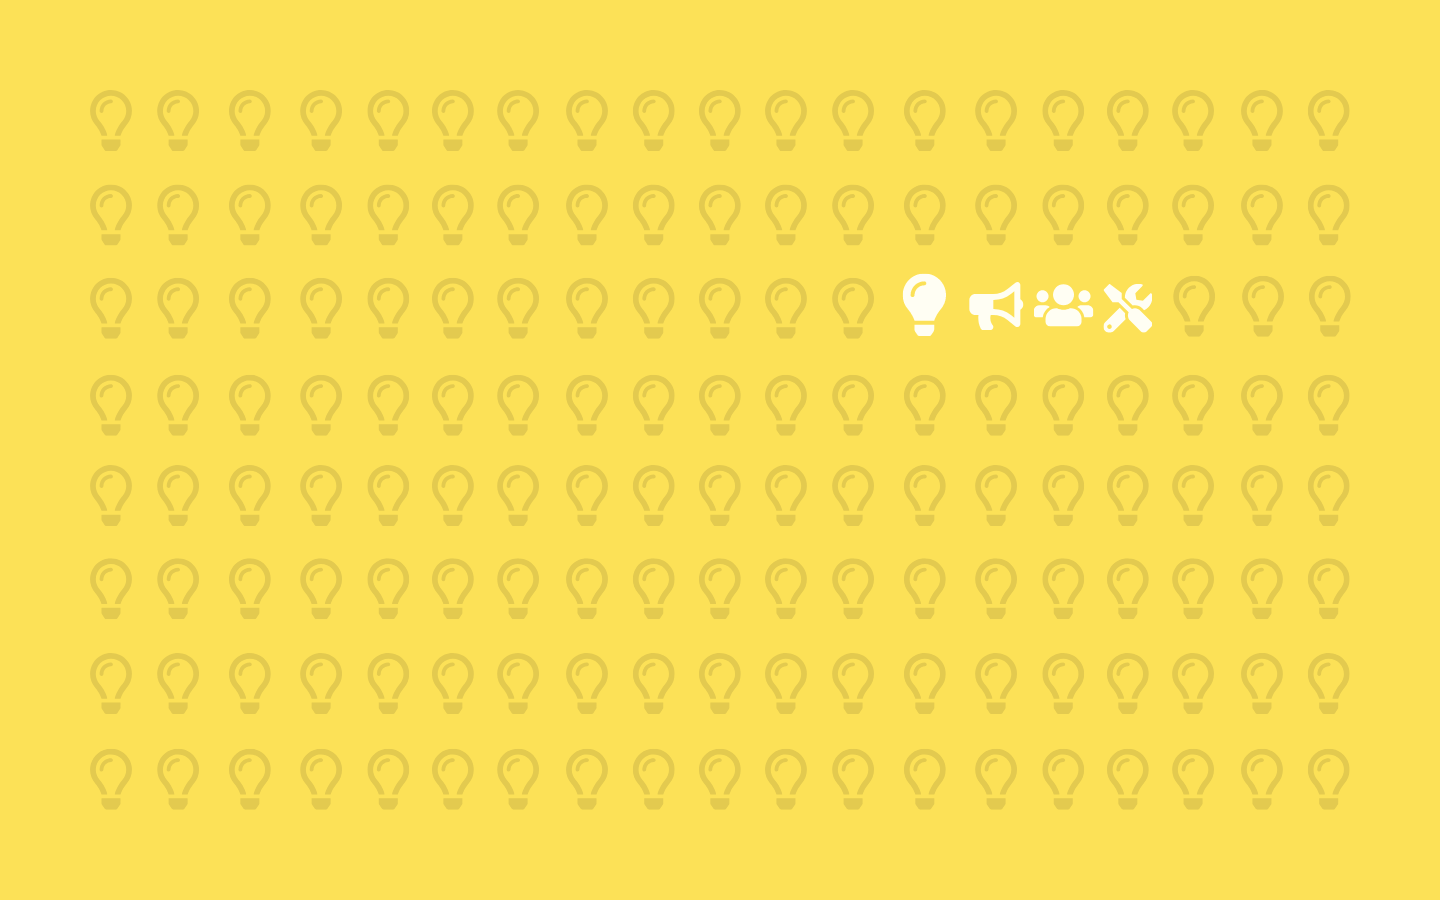
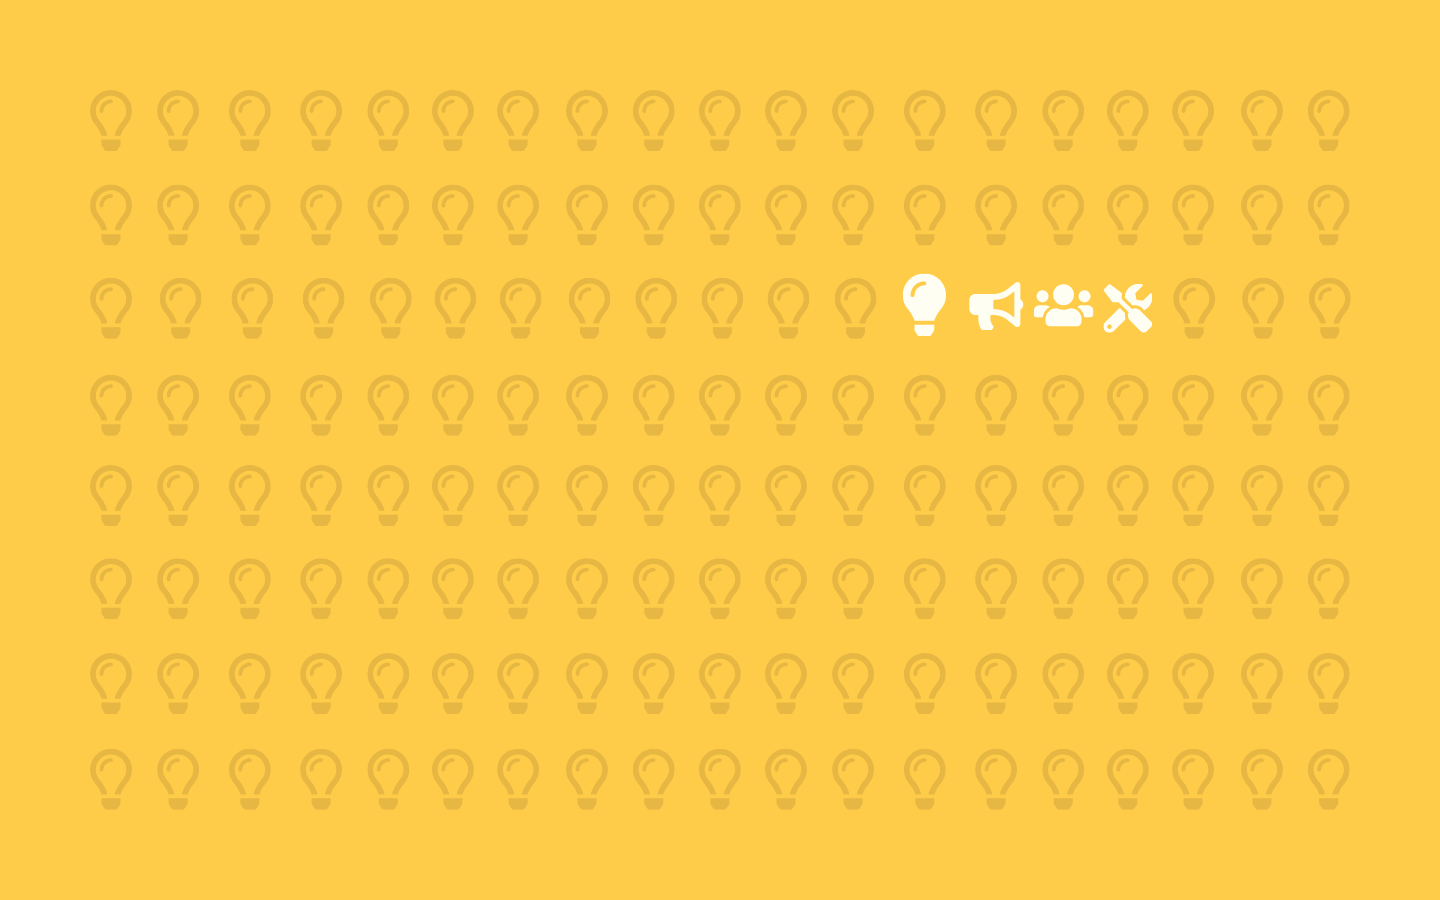
change yellow color to darker yellow

Changed region(s): [[0.0938, 0.3111, 0.625, 0.3733], [0.9062, 0.3111, 0.9375, 0.3733], [0.8125, 0.3111, 0.8438, 0.3733]]

diff --git a/_sass/main.scss b/_sass/main.scss
@@ -1,6 +1,7 @@
 // Color palette
 $blue: #0d6eac;
-$yellow: #fce157;
+// $yellow: #fce157;
+$yellow: #ffcc49;
 $orange: #e87731;
 $red: #e03b42;
 $green: #75ba44;
